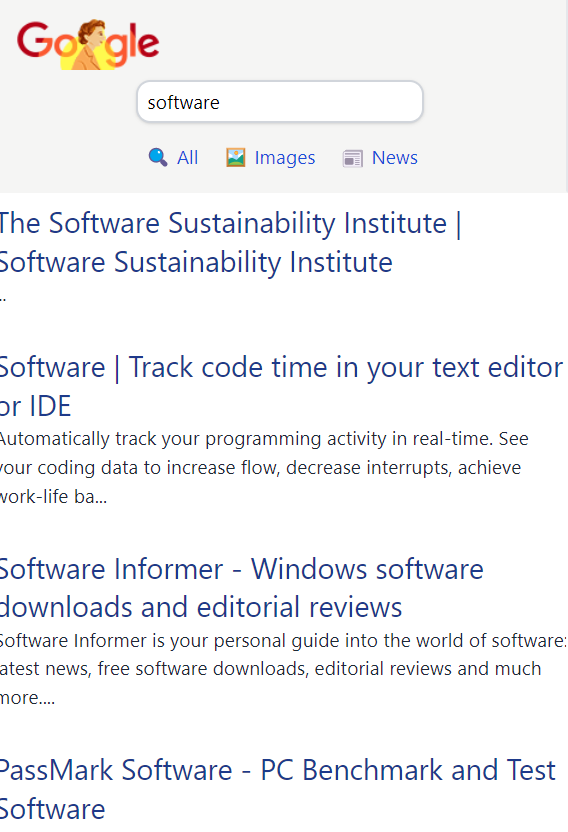
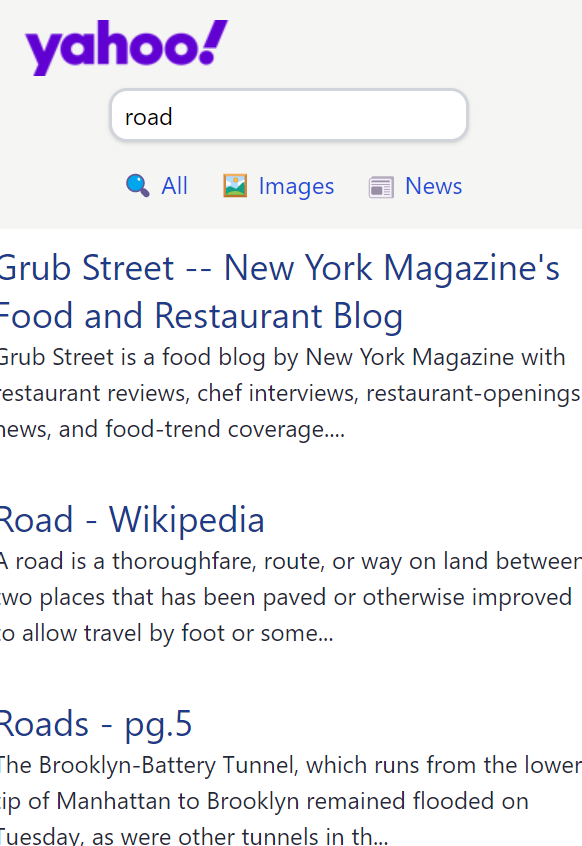
portfolio

Changed region(s): [[0.0, 0.0, 1.0, 1.0]]

diff --git a/src/Project.css b/src/Project.css
@@ -1,114 +1,114 @@
 .project {
-    background-color: #191919;
- }
- 
- img.project__img {
-    border-radius: 10px;
-    width: 100%;
-    object-fit: cover;
-    transition: .4s;
-    opacity: .7;
-    position: relative;
- }
- 
- img.project__img::after{
-    content: '';
-    width: 100%;
-    height: 100%;
-    background-color: #000;
-    z-index: 1;
-    opacity: 1;
- }
- 
- .mask__effect {
-    width: 100%;
-    height: 100%;
-    position: absolute;
-    top: 0;
-    left: 0;
-    background-color: #f9004d;
-    border-radius: 10px;
-    transition: .4s;
-    opacity: .3;
-    display: none;
- }
+  background-color: #191919;
+}
 
- .project__box:hover .mask__effect {
-    display: inline;
-    transform: scale(1.1);
- }
+img.project__img {
+  border-radius: 10px;
+  width: 100%;
+  object-fit: cover;
+  transition: 0.4s;
+  opacity: 0.7;
+  position: relative;
+}
 
- .project__box:hover img.project__img {
-    transform: scale(1.1);
- }
+img.project__img::after {
+  content: "";
+  width: 100%;
+  height: 100%;
+  background-color: #000;
+  z-index: 1;
+  opacity: 1;
+}
 
- .project__meta.absolute {
-    top: 0%;
-    left: 0%;
-    display: flex;
-    height: 100%;
-    align-items: center;
-    justify-content: center;
-    flex-direction: column;
-    flex-wrap: wrap;
-    border-radius: 10px;
-    width: 100%;
- }
+.mask__effect {
+  width: 100%;
+  height: 100%;
+  position: absolute;
+  top: 0;
+  left: 0;
+  background-color: #f9004d;
+  border-radius: 10px;
+  transition: 0.4s;
+  opacity: 0.3;
+  display: none;
+}
 
- h5.project__text {
+.project__box:hover .mask__effect {
+  display: inline;
+  transform: scale(1.1);
+}
+
+.project__box:hover img.project__img {
+  transform: scale(1.1);
+}
+
+.project__meta.absolute {
+  top: 0%;
+  left: 0%;
+  display: flex;
+  height: 100%;
+  align-items: center;
+  justify-content: center;
+  flex-direction: column;
+  flex-wrap: wrap;
+  border-radius: 10px;
+  width: 100%;
+}
+
+h5.project__text {
+  font-weight: 400;
+  font-size: 20px;
+  padding-bottom: 20px;
+}
+
+p.project__text {
+  font-size: 14px;
+  font-family: Poppins, sans-serif;
+  font-weight: 700;
+  padding-bottom: 20px;
+  color: #fff;
+  padding-top: 3px;
+}
+
+a.project__btn {
+  padding: 12px 35px;
+  border: 2px solid #ffffff;
+  border-radius: 5px;
+  transition: 0.4s ease;
+}
+
+a.project__btn:hover {
+  background-color: #f9004d;
+  border: 2px solid #f9004d;
+}
+
+button.btn {
+  padding: 15px 20px;
+  font-size: 18px;
+  font-weight: 500;
+  border-radius: 5px;
+  border: 2px solid #f9004d;
+  background-color: #f9004d;
+  color: #fff !important;
+  text-transform: uppercase;
+  letter-spacing: 2px;
+  transition: 0.4s all ease;
+}
+
+button.view__more:hover {
+  background-color: #fff;
+  border: 2px solid #f9004d;
+  color: #f9004d !important;
+}
+
+@media only screen and (max-width: 1024px) {
+  h5.project__text {
     font-weight: 400;
     font-size: 20px;
     padding-bottom: 20px;
- }
+  }
 
- p.project__text {
-    font-size: 14px;
-    font-family: Poppins, sans-serif;
-    font-weight: 700;
-    padding-bottom: 20px;
-    color:#fff;
-    padding-top: 3px;
- }
- 
- a.project__btn {
-    padding: 12px 35px;
-    border: 2px solid #ffffff;
-    border-radius: 5px;
-    transition: .4s ease;
- }
-
- a.project__btn:hover {
-    background-color: #f9004d;
-    border: 2px solid #f9004d;
- }
-
- button.btn {
-    padding: 15px 20px;
+  p.project__text {
     font-size: 18px;
-    font-weight: 500;
-    border-radius: 5px;
-    border: 2px solid #f9004d;
-    background-color: #f9004d;
-    color: #fff !important;
-    text-transform: uppercase;
-    letter-spacing: 2px;
-    transition: .4s all ease;
- }
-
- button.view__more:hover {
-    background-color: #fff;
-    border: 2px solid #f9004d;
-    color: #f9004d !important;
- }
-
-@media only screen and (max-width: 1024px) {
-     h5.project__text {
-        font-weight: 400;
-        font-size: 20px;
-        padding-bottom: 20px;
-     }
-
-     p.project__text {
-        font-size: 18px;
-     }
+  }
 }

diff --git a/src/Project.jsx b/src/Project.jsx
@@ -30,9 +30,9 @@ function Project () {
                             </div>
                         </div>
                         <div className="project__meta absolute">
-                            <h4 className="project__text">Google Search</h4>
+                            <h4 className="project__text">Yahoo Clone</h4>
                              <p  className="project__text">Tech : React,Tailwind ,Html, Css,JavaScript</p>
-                            <a href="https://akshayudupa7.github.io/React-google-clone/" className="project__btn">View Details</a>
+                            <a href="https://akshayudupa7.github.io/React-yahoo-clone/" className="project__btn">View Details</a>
                         </div>
                     </div>
                    </div>
